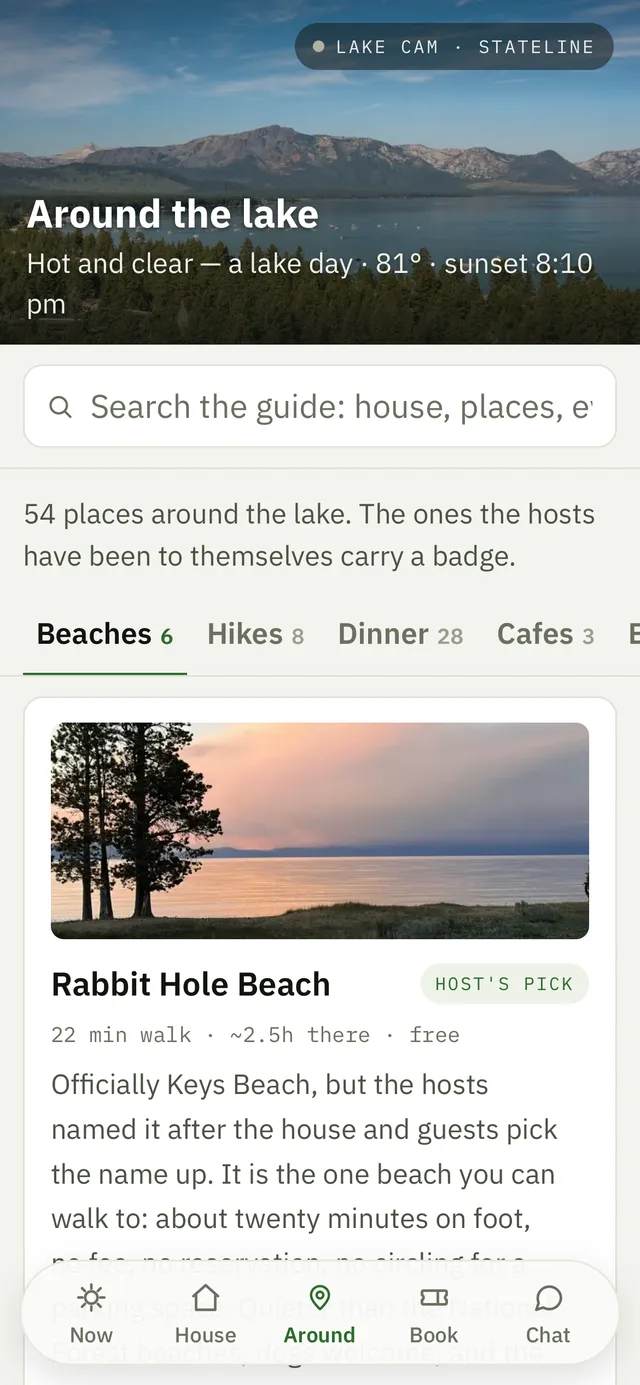
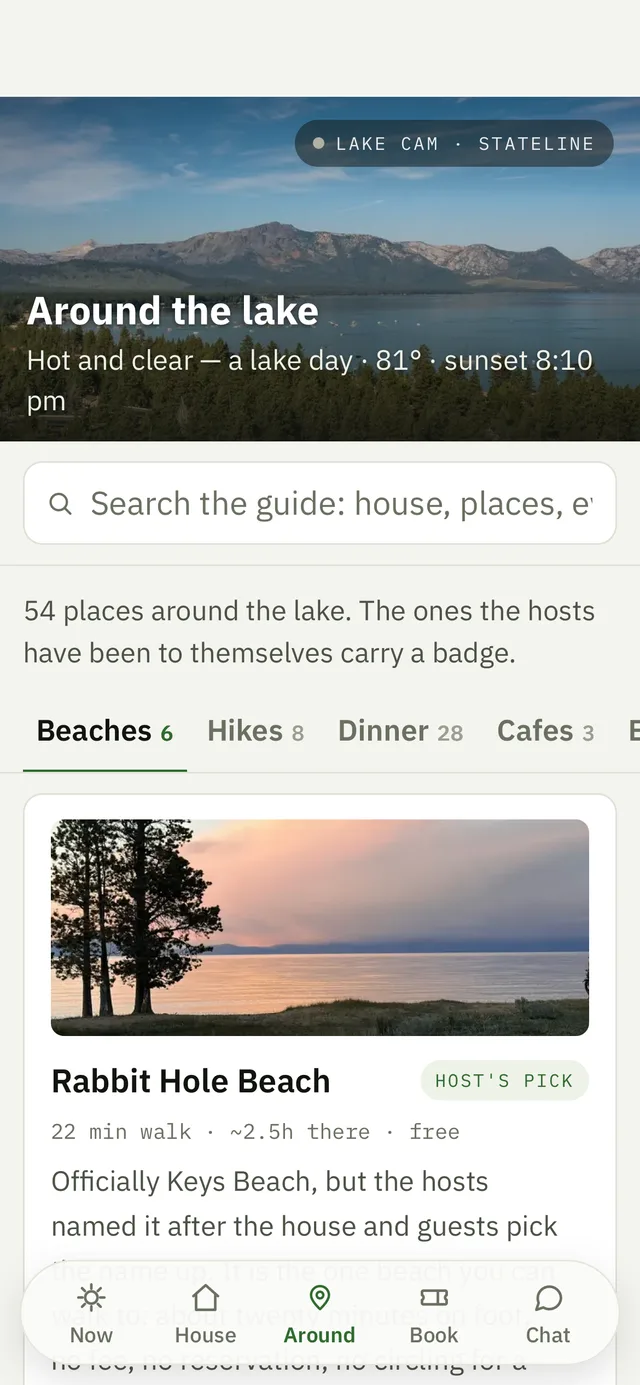
The island gets its status strip; content gets its safe area
Field report three: on light screens the island sat straight on the
first row of text. Two halves of the fix. The captures gain the 59px
top spacer a notched phone gives every page, so unscrolled screens
start below the island. And the frame gains the cream status strip
Safari always draws — scrolled content now disappears under a crisp
edge, exactly as it does on the real device, instead of running into
a bare black pill.

diff --git a/index.html b/index.html
@@ -203,6 +203,14 @@ img{max-width:100%;display:block}
   content:'';position:absolute;top:5.2%;left:50%;transform:translateX(-50%);
   width:29%;aspect-ratio:100/29;background:#0a0b08;border-radius:999px;z-index:2;
 }
+/* The status strip the island lives in — same cream Safari shows above any
+   page, and the crisp edge scrolled content disappears under, like on the
+   real device. */
+.ph::after{
+  content:'';position:absolute;top:10px;left:10px;right:10px;height:7.4%;
+  background:#f4f4ef;border-radius:30px 30px 0 0;z-index:1;
+}
+.hero__combo .ph::after{border-radius:20px 20px 0 0;top:6px;left:6px;right:6px}
 /* The hardware: mute, the volume rocker, and the side button. */
 .ph__hw{position:absolute;inset:0;pointer-events:none}
 .ph__hw::before,.ph__hw::after{content:''}

diff --git a/ru/index.html b/ru/index.html
@@ -203,6 +203,14 @@ img{max-width:100%;display:block}
   content:'';position:absolute;top:5.2%;left:50%;transform:translateX(-50%);
   width:29%;aspect-ratio:100/29;background:#0a0b08;border-radius:999px;z-index:2;
 }
+/* The status strip the island lives in — same cream Safari shows above any
+   page, and the crisp edge scrolled content disappears under, like on the
+   real device. */
+.ph::after{
+  content:'';position:absolute;top:10px;left:10px;right:10px;height:7.4%;
+  background:#f4f4ef;border-radius:30px 30px 0 0;z-index:1;
+}
+.hero__combo .ph::after{border-radius:20px 20px 0 0;top:6px;left:6px;right:6px}
 /* The hardware: mute, the volume rocker, and the side button. */
 .ph__hw{position:absolute;inset:0;pointer-events:none}
 .ph__hw::before,.ph__hw::after{content:''}
